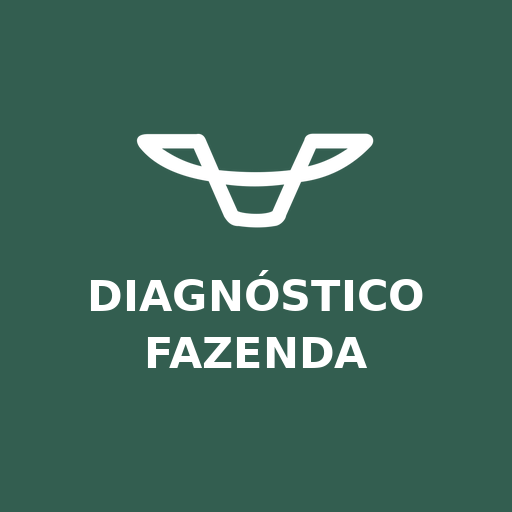
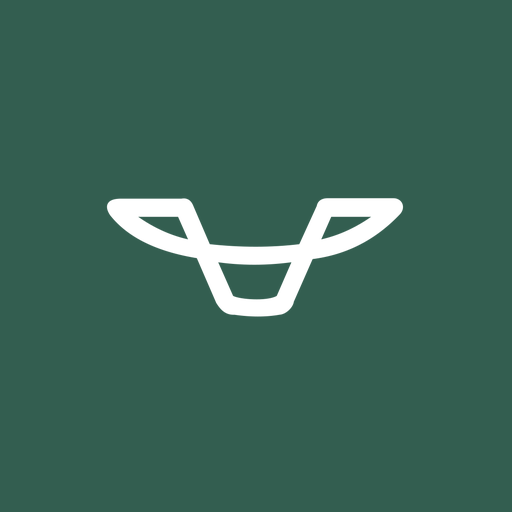
Ícone sem texto para não ser cortado pelo Android
Claude-Session: https://claude.ai/code/session_014kWhQ3aY45nmE32hr55Pvo

Changed region(s): [[0.1562, 0.25, 0.8438, 0.625], [0.2812, 0.6562, 0.7188, 0.7188]]

diff --git a/sw.js b/sw.js
@@ -1,4 +1,4 @@
-const CACHE = 'arpec-diag-v2';
+const CACHE = 'arpec-diag-v3';
 const FILES = ['./', './index.html', './manifest.webmanifest', './icon-192.png', './icon-512.png'];
 self.addEventListener('install', e => { e.waitUntil(caches.open(CACHE).then(c => c.addAll(FILES))); self.skipWaiting(); });
 self.addEventListener('activate', e => {
